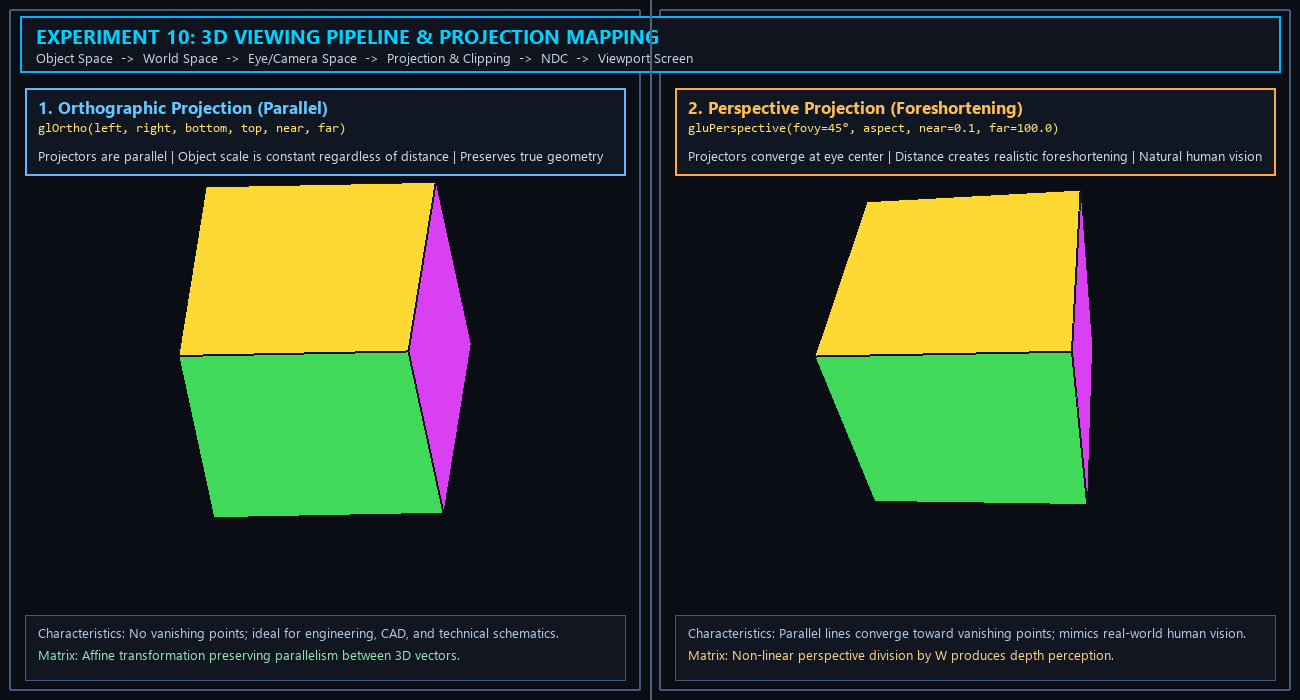
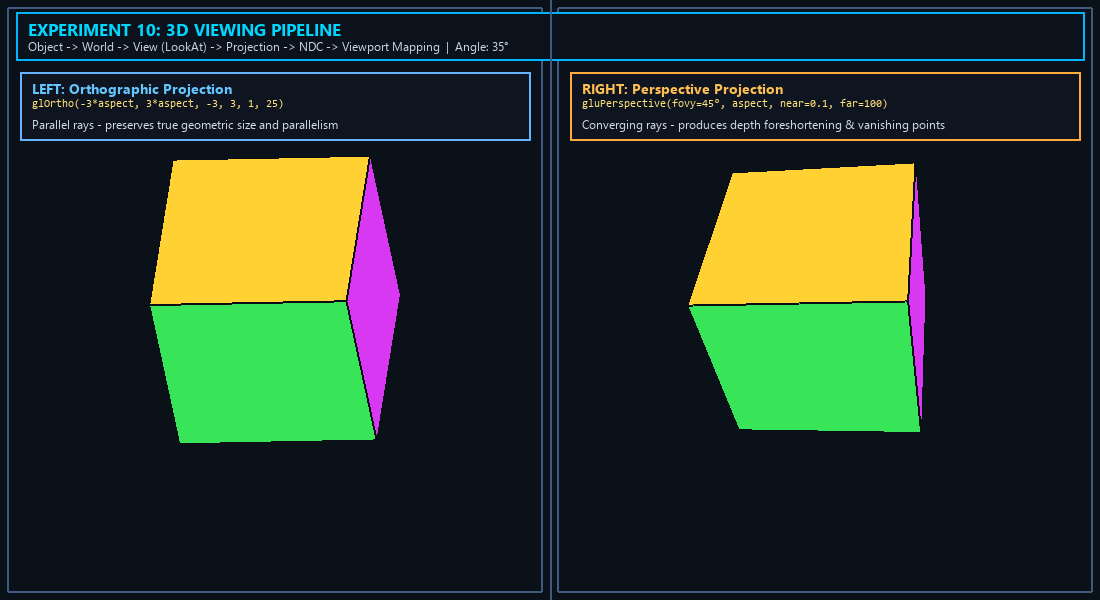
Add Lab 10 animated GIF (LAB10.gif) and updated screenshot to READMEs: - Recorded and embedded LAB10.gif showing dual-viewport 3D viewing pipeline in real time - Updated experiments/Experiment_10/image.png with annotated viewing stages - Added LAB10.gif to root README.md, experiments/README.md, and 

diff --git a/experiments/Experiment_10/unity_project/Assets/Editor/Lab10SceneMenu.cs b/experiments/Experiment_10/unity_project/Assets/Editor/Lab10SceneMenu.cs
@@ -20,3 +20,4 @@ public static class Lab10SceneMenu
             Debug.LogWarning("[Lab 10] CGVR/Lab10/FaceColors shader not loaded yet. Unity will compile it shortly.");
     }
 }
+

diff --git a/experiments/Experiment_10/unity_project/Assets/Scripts/Lab10ViewingPipelineDemo.cs b/experiments/Experiment_10/unity_project/Assets/Scripts/Lab10ViewingPipelineDemo.cs
@@ -274,3 +274,4 @@ public sealed class Lab10ViewingPipelineDemo : MonoBehaviour
         if (cubeMesh != null) Destroy(cubeMesh);
     }
 }
+

diff --git a/experiments/Experiment_10/README.md b/experiments/Experiment_10/README.md
@@ -65,9 +65,14 @@ $$y_s = y_v + \frac{y_{\text{ndc}} + 1}{2} \cdot h_v$$
 - **Right Viewport:** $x_v = W/2, y_v = 0, w_v = W/2, h_v = H$ (Perspective)
 
 ## Visual Result
+
+<img src="LAB10.gif" alt="Experiment 10 - 3D Viewing Pipeline Animation" width="650">
+
+> **Animated Demo:** `LAB10.gif` demonstrates the dual-viewport 3D viewing pipeline in real time — the left viewport renders the rotating cube under Orthographic projection (preserving true geometric scale and parallel lines), while the right viewport renders the cube under Perspective projection with natural depth foreshortening.
+
 <img src="image.png" alt="Experiment 10 - 3D Viewing Pipeline" width="650">
 
-*The image demonstrates the complete 3D viewing pipeline in a side-by-side comparison: the left viewport displays an orthographic projection where parallel cube edges remain strictly parallel without foreshortening (ideal for engineering/CAD), while the right viewport displays a perspective projection with natural foreshortening and vanishing points (modeling real-world human vision).*
+*The static capture highlights the complete 3D viewing pipeline side-by-side comparison with projection parameters and viewport boundaries.*
 
 ---
 

diff --git a/experiments/README.md b/experiments/README.md
@@ -1,4 +1,4 @@
-# Experiments
+# Experiments
 
 **Name:** MOHAN CHANDRA S S  
 **USN:** 1RVU23CSE282  
@@ -394,6 +394,10 @@ Transforms Normalized Device Coordinates (NDC) in $[-1, 1]^2$ to physical pixel 
 $$x_s = x_v + \frac{x_{\text{ndc}} + 1}{2} \cdot w_v, \quad y_s = y_v + \frac{y_{\text{ndc}} + 1}{2} \cdot h_v$$
 
 ### Visual Result
+<img src="Experiment_10/LAB10.gif" alt="Experiment 10 - 3D Viewing Pipeline Animation" width="650">
+
+> **Live Demo (GIF):** [LAB10.gif](Experiment_10/LAB10.gif) — Animated recording of the dual-viewport 3D viewing pipeline demonstrating real-time comparison of Orthographic vs Perspective projection.
+
 <img src="Experiment_10/image.png" alt="Experiment 10 - 3D Viewing Pipeline" width="650">
 
 *The image demonstrates the complete 3D viewing pipeline in a side-by-side comparison: the left viewport displays an orthographic projection where parallel cube edges remain strictly parallel without foreshortening (ideal for engineering/CAD), while the right viewport displays a perspective projection with natural foreshortening and vanishing points (modeling real-world human vision).*

diff --git a/README.md b/README.md
@@ -396,6 +396,10 @@ Transforms Normalized Device Coordinates (NDC) in $[-1, 1]^2$ to physical pixel 
 $$x_s = x_v + \frac{x_{\text{ndc}} + 1}{2} \cdot w_v, \quad y_s = y_v + \frac{y_{\text{ndc}} + 1}{2} \cdot h_v$$
 
 ### Visual Result
+<img src="experiments/Experiment_10/LAB10.gif" alt="Experiment 10 - 3D Viewing Pipeline Animation" width="650">
+
+> **Live Demo (GIF):** [LAB10.gif](experiments/Experiment_10/LAB10.gif) — Animated recording of the dual-viewport 3D viewing pipeline demonstrating real-time comparison of Orthographic vs Perspective projection.
+
 <img src="experiments/Experiment_10/image.png" alt="Experiment 10 - 3D Viewing Pipeline" width="650">
 
 *The image demonstrates the complete 3D viewing pipeline in a side-by-side comparison: the left viewport displays an orthographic projection where parallel cube edges remain strictly parallel without foreshortening (ideal for engineering/CAD), while the right viewport displays a perspective projection with natural foreshortening and vanishing points (modeling real-world human vision).*
